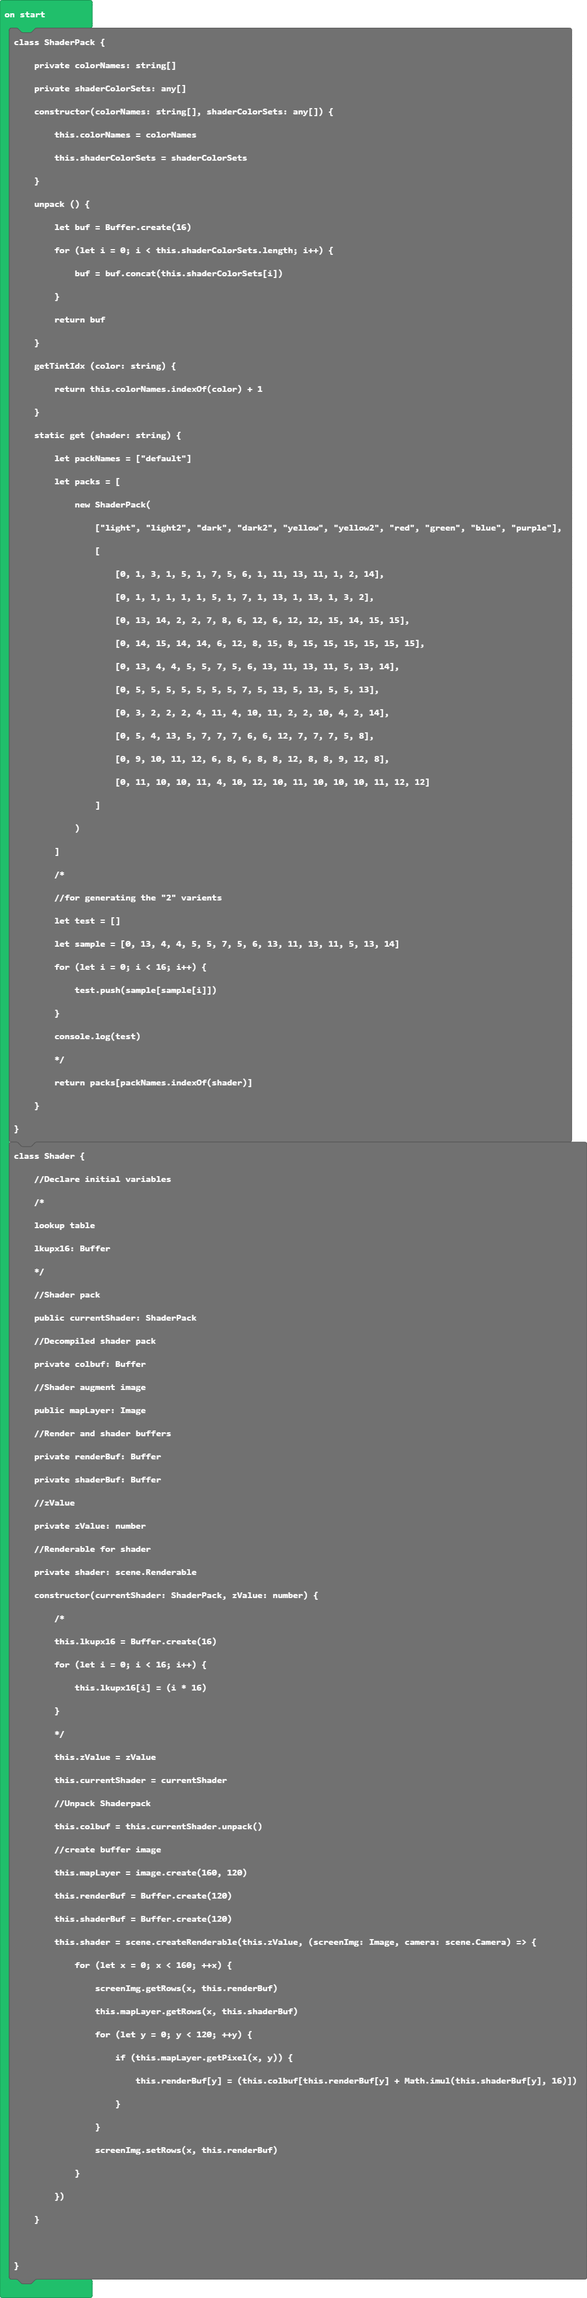
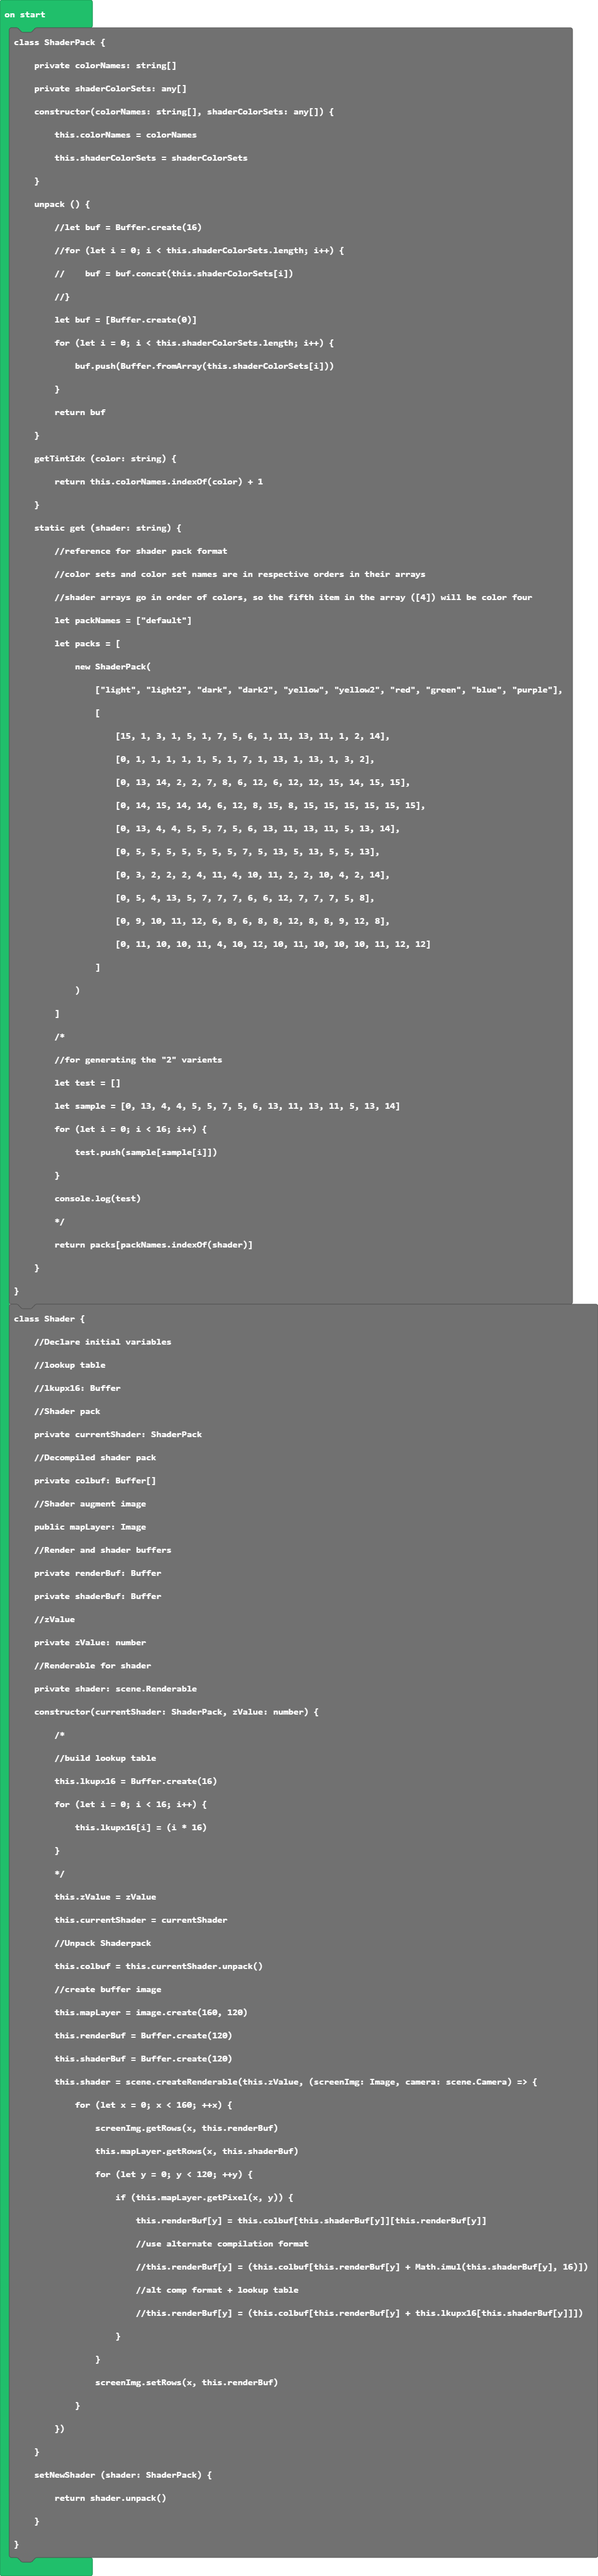
Update main.blocks, main.ts, test.ts

diff --git a/main.ts b/main.ts
@@ -10,7 +10,7 @@ class ShaderPack {
         //for (let i = 0; i < this.shaderColorSets.length; i++) {
         //    buf = buf.concat(this.shaderColorSets[i])
         //}
-        let buf = []
+        let buf = [Buffer.create(0)]
         for (let i = 0; i < this.shaderColorSets.length; i++) {
             buf.push(Buffer.fromArray(this.shaderColorSets[i]))
         }
@@ -20,13 +20,16 @@ class ShaderPack {
         return this.colorNames.indexOf(color) + 1
     }
     static get (shader: string) {
+        //reference for shader pack format
+        //color sets and color set names are in respective orders in their arrays
+        //shader arrays go in order of colors, so the fifth item in the array ([4]) will be color four
         let packNames = ["default"]
         let packs = [
             new ShaderPack(
                 ["light", "light2", "dark", "dark2", "yellow", "yellow2", "red", "green", "blue", "purple"],
                 [
-                    [0, 1, 3, 1, 5, 1, 7, 5, 6, 1, 11, 13, 11, 1, 2, 14],
-                    [0, 1, 1, 1, 1, 1, 5, 1, 7, 1, 13, 1, 13, 1, 3, 2],
+                    [0, 1, 4, 1, 5, 1, 7, 5, 9, 1, 11, 1, 10, 1, 2, 12],
+                    [0, 1, 5, 1, 1, 1, 5, 1, 1, 1, 1, 1, 11, 1, 4, 10],
                     [0, 13, 14, 2, 2, 7, 8, 6, 12, 6, 12, 12, 15, 14, 15, 15],
                     [0, 14, 15, 14, 14, 6, 12, 8, 15, 8, 15, 15, 15, 15, 15, 15],
                     [0, 13, 4, 4, 5, 5, 7, 5, 6, 13, 11, 13, 11, 5, 13, 14],
@@ -38,15 +41,15 @@ class ShaderPack {
                 ]
             )
         ]
-        /*
+        
         //for generating the "2" varients
         let test = []
-        let sample = [0, 13, 4, 4, 5, 5, 7, 5, 6, 13, 11, 13, 11, 5, 13, 14]
+        let sample = [0, 1, 4, 1, 5, 1, 7, 5, 9, 1, 11, 1, 10, 1, 2, 12]
         for (let i = 0; i < 16; i++) {
             test.push(sample[sample[i]])
         }
         console.log(test)
-        */
+        
         return packs[packNames.indexOf(shader)]
     }
 }
@@ -69,6 +72,7 @@ class Shader {
     private shader: scene.Renderable
     constructor(currentShader: ShaderPack, zValue: number) {
         /*
+        //build lookup table
         this.lkupx16 = Buffer.create(16)
         for (let i = 0; i < 16; i++) {
             this.lkupx16[i] = (i * 16)
@@ -89,7 +93,9 @@ class Shader {
                 for (let y = 0; y < 120; ++y) {
                     if (this.mapLayer.getPixel(x, y)) {
                         this.renderBuf[y] = this.colbuf[this.shaderBuf[y]][this.renderBuf[y]]
+                        //use alternate compilation format
                         //this.renderBuf[y] = (this.colbuf[this.renderBuf[y] + Math.imul(this.shaderBuf[y], 16)])
+                        //alt comp format + lookup table
                         //this.renderBuf[y] = (this.colbuf[this.renderBuf[y] + this.lkupx16[this.shaderBuf[y]]])
                     }
                 }

diff --git a/test.ts b/test.ts
@@ -123,4 +123,4 @@ scene.setBackgroundImage(img`
     9999999999999666666666666666666666666666667777777769999999999999999999999999999999999999999996666666666666666666666666666677777777699999999999999999999999999999
 `)
 let shader = new Shader(sp1, 1)
-shader.mapLayer.fillCircle(60,60,500,sp1.getTintIdx("light2"))
+shader.mapLayer.fillCircle(60,60,50,sp1.getTintIdx("light2"))
